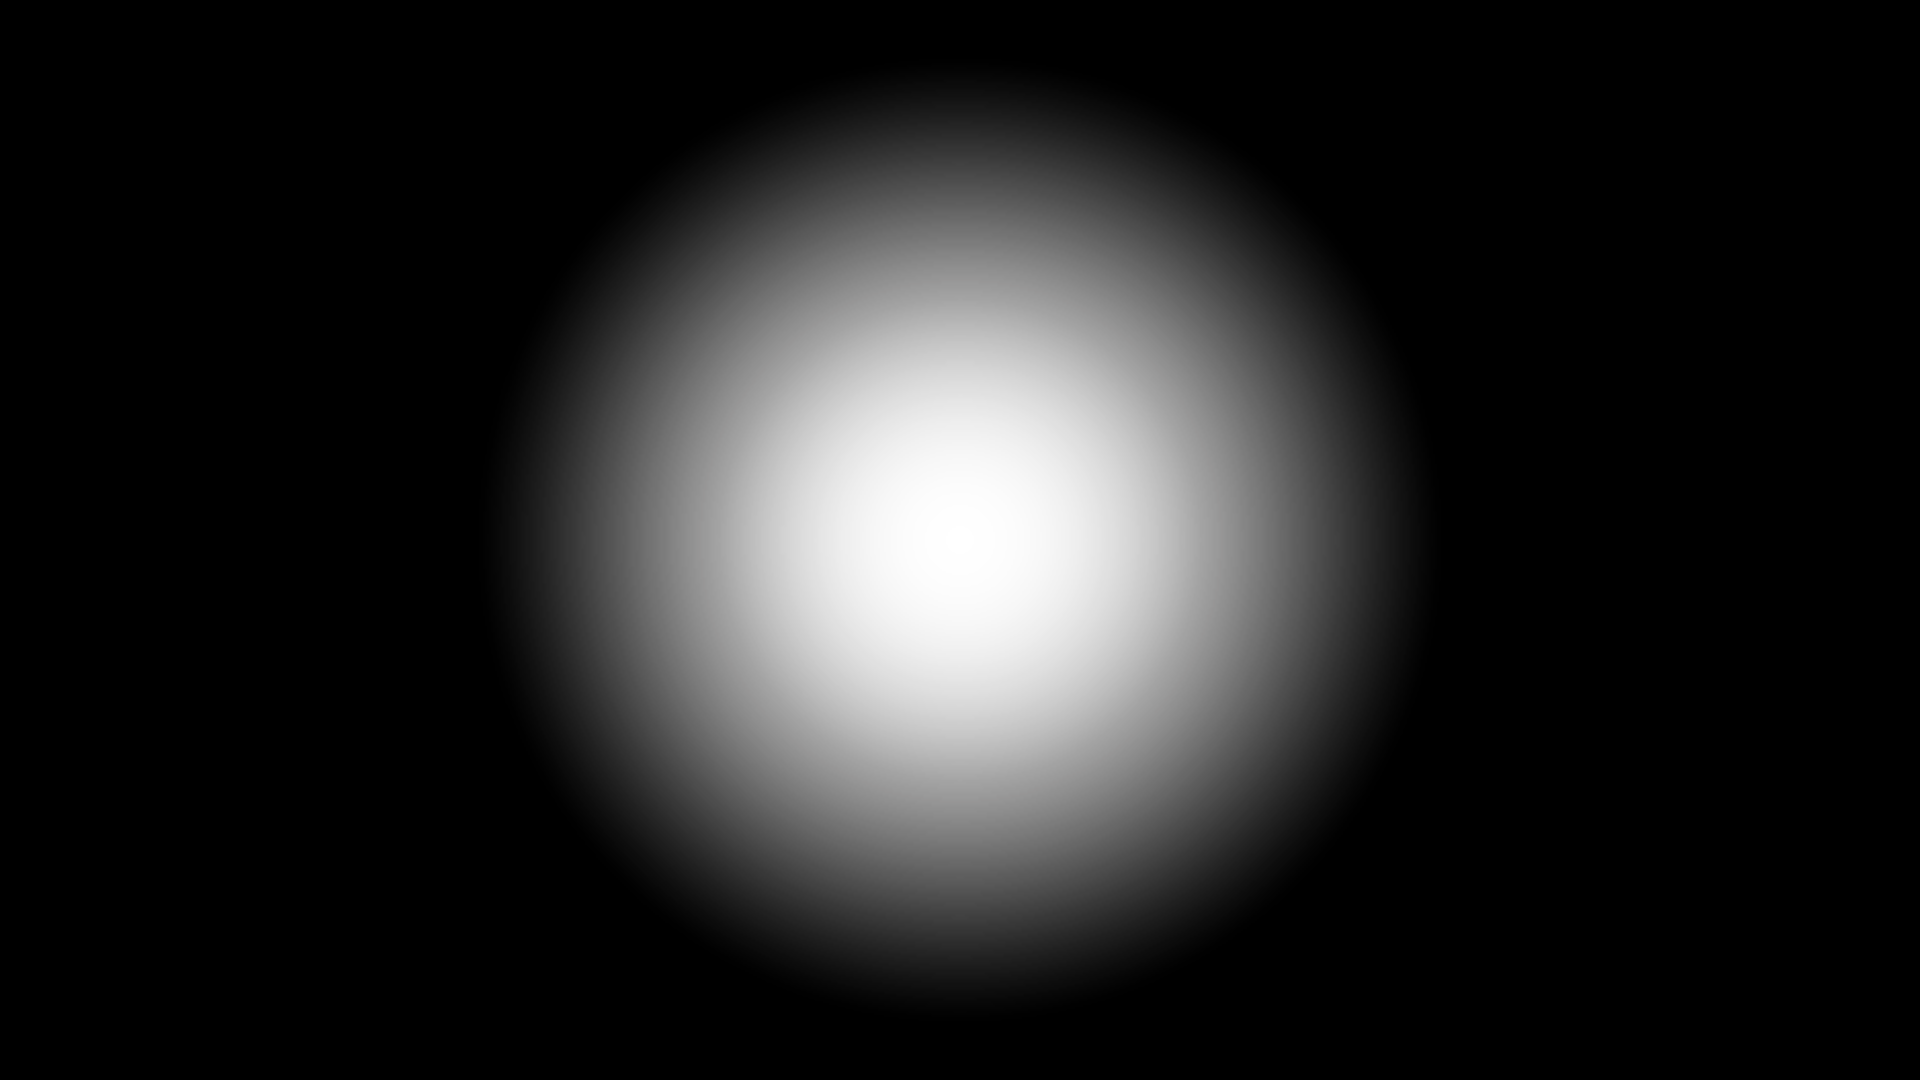
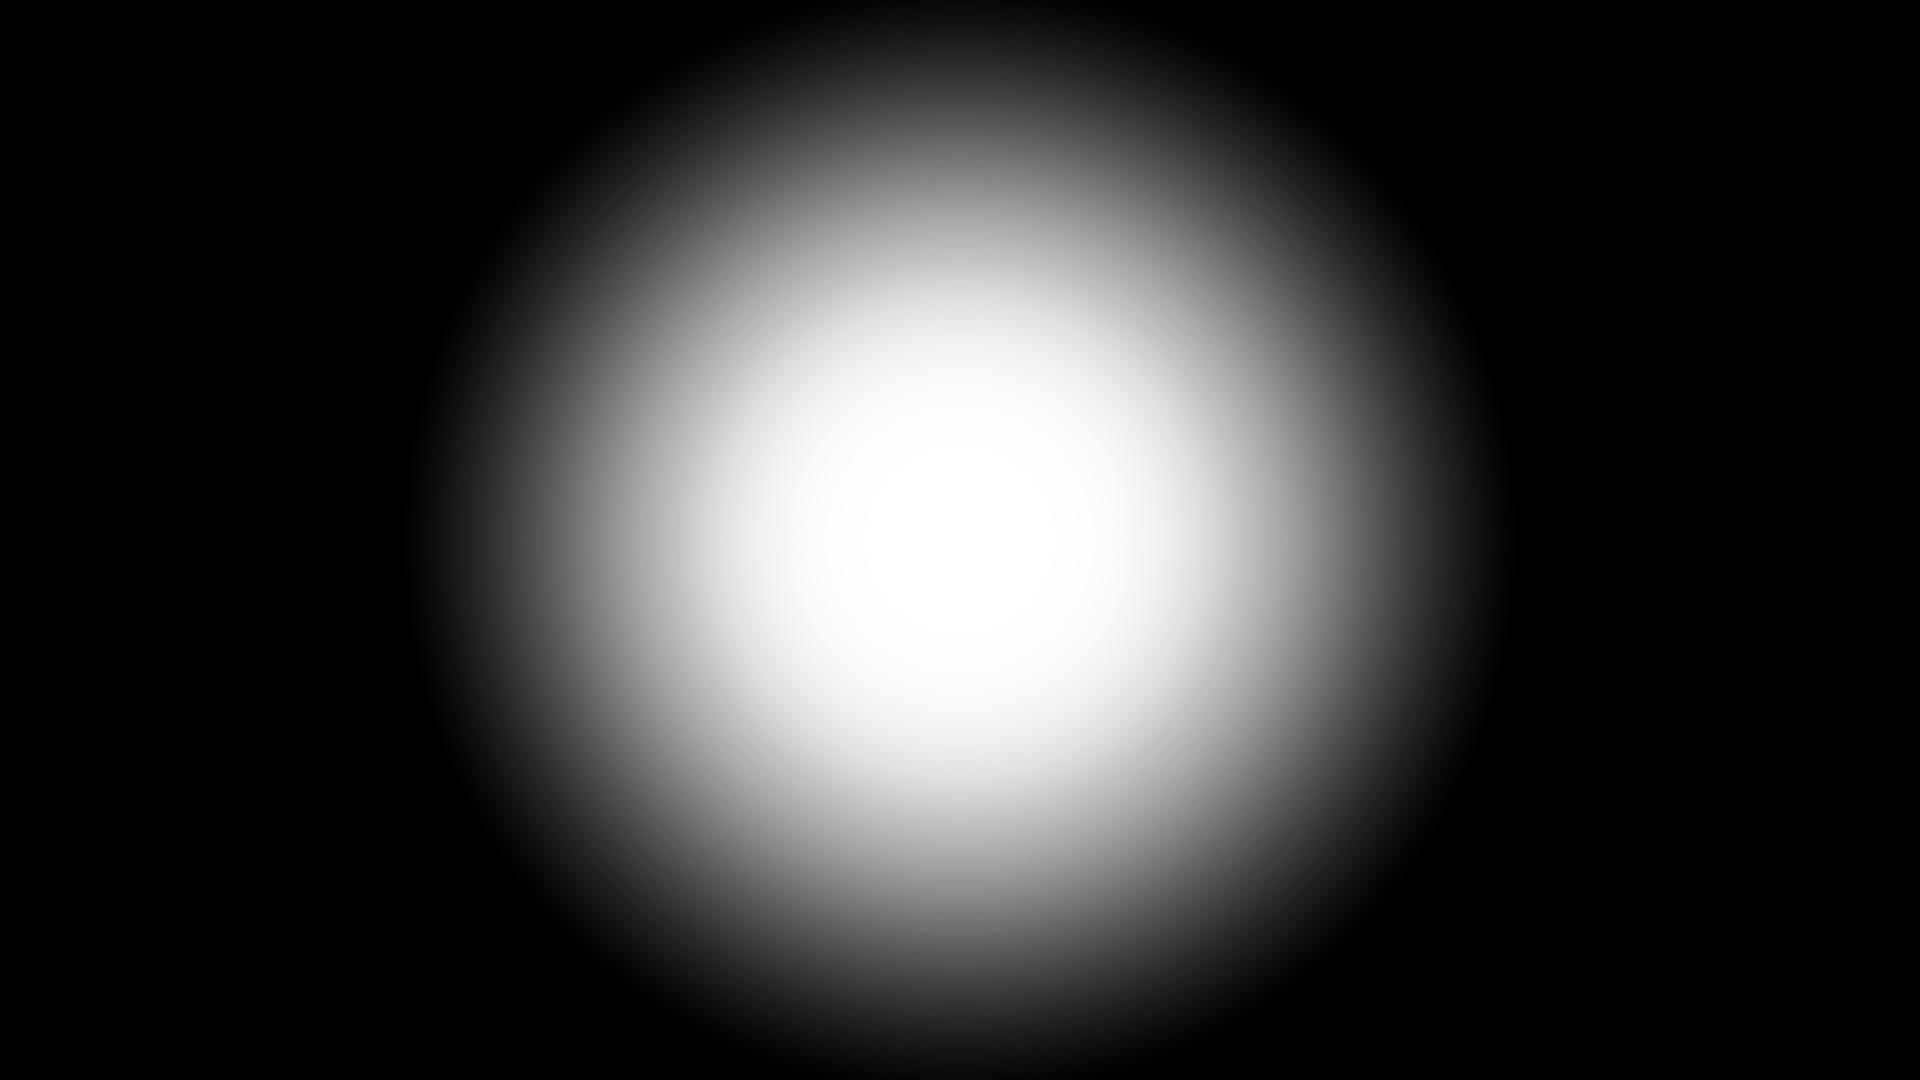
updated: overlay; modularized assets

diff --git a/src/graphics.cpp b/src/graphics.cpp
@@ -45,16 +45,17 @@ namespace Graphics {
         return Graphics::textures[path];
     }
 
+
     void drawMap(sf::RenderWindow& window) {
 
-        auto texture = Graphics::getTexture("assets/wall.png");
+        auto texture = Graphics::getTexture(Assets::wall_sprite);
         auto wall = sf::Sprite(texture);
         wall.setScale({
             Map::tilesize / static_cast<float>(texture.getSize().x),
             Map::tilesize / static_cast<float>(texture.getSize().y)
         });
 
-        auto texture2 = Graphics::getTexture("assets/floor.png");
+        auto texture2 = Graphics::getTexture(Assets::floor_sprite);
         auto floor = sf::Sprite(texture2);
         floor.setScale({
             Map::tilesize / static_cast<float>(texture2.getSize().x),
@@ -85,7 +86,7 @@ namespace Graphics {
 
         if (player.hidden) return;
 
-        auto texture = Graphics::getTexture("assets/player.png");
+        auto texture = Graphics::getTexture(Assets::player_sprite);
         auto sprite = sf::Sprite(texture);
         sprite.setScale({
             player.size / static_cast<float>(texture.getSize().x) * 2.5f,
@@ -97,7 +98,7 @@ namespace Graphics {
 
 
     void drawGhost(sf::RenderWindow& window, Ghost::Entity& ghost) {
-        auto texture = Graphics::getTexture("assets/ghost.png");
+        auto texture = Graphics::getTexture(Assets::ghost_sprite);
         auto sprite = sf::Sprite(texture);
         sprite.setScale({
             ghost.size / static_cast<float>(texture.getSize().x) * 3.5f,
@@ -111,7 +112,7 @@ namespace Graphics {
     void drawOverlay(sf::RenderWindow& window, sf::View& camera, Player::Entity& player) {
 
         static sf::Texture texture;
-        static bool loaded = texture.loadFromFile("assets/overlay.png");
+        static bool loaded = texture.loadFromFile(Assets::overlay_image);
 
         if (!loaded) {
             DEBUG("GRAPHICS: WARNING: overlay file not found!");
@@ -140,7 +141,7 @@ namespace Graphics {
 
         if (!font_loaded)
         {
-            if (!font.openFromFile("assets/silkscreen-regular.ttf"))
+            if (!font.openFromFile(Assets::silkscreen_regular_font))
             {
                 DEBUG("Failed to load HUD font");
 
@@ -181,7 +182,7 @@ namespace Graphics {
 
         for (unsigned int i = 0; i < Map::cross_slots.size(); i++) {
             auto tile = Map::cross_slots[i];
-            auto texture = Graphics::getTexture("assets/cross.png");
+            auto texture = Graphics::getTexture(Assets::cross_sprite);
             sf::Sprite sprite(texture);
             sprite.setScale({3.5,3.5});
             sprite.setPosition(Utils::tiledToCartesianVector(tile, Map::tilesize));
@@ -190,7 +191,7 @@ namespace Graphics {
 
         for (unsigned int i = 0; i < Map::crate_slots.size(); i++) {
             auto tile = Map::crate_slots[i];
-            auto texture = Graphics::getTexture("assets/crate.png");
+            auto texture = Graphics::getTexture(Assets::crate_sprite);
             sf::Sprite sprite(texture);
             sprite.setScale(
                 {
@@ -234,7 +235,7 @@ namespace Graphics {
         static bool font_loaded = false;
 
         if (!font_loaded) {
-            if (!font.openFromFile("assets/silkscreen-regular.ttf")) {
+            if (!font.openFromFile(Assets::silkscreen_regular_font)) {
                 DEBUG("Failed to load font");
                 exit(1);
             }   

diff --git a/src/include/graphics.hpp b/src/include/graphics.hpp
@@ -16,6 +16,29 @@
 
 namespace Graphics {
 
+    namespace Assets {
+        // Images & Sprites
+        const char menu_bg_image[] = "assets/bg.jpg";
+        const char overlay_image[] = "assets/overlay.png";
+        const char crate_sprite[] = "assets/crate.png";
+        const char cross_sprite[] = "assets/cross.png";
+        const char floor_sprite[] = "assets/floor.png";
+        const char ghost_sprite[] = "assets/ghost.png";
+        const char player_sprite[] = "assets/player.png";
+        const char wall_sprite[] = "assets/wall.png";
+    
+        // Map Data
+        const char map_file[] = "assets/map.png";
+    
+        // Audio
+        const char faint_signal_music[] = "assets/faint-signal.mp3";
+        const char golden_wind_music[] = "assets/golden-wind.mp3";
+        const char old_doll_slowed_music[] = "assets/old_doll_slowed.mp3";
+    
+        // Fonts
+        const char silkscreen_regular_font[] = "assets/silkscreen-regular.ttf";
+    }
+
     void drawMap(sf::RenderWindow& window);
 
     void drawPlayer(sf::RenderWindow& window, Player::Entity& player);

diff --git a/src/game.cpp b/src/game.cpp
@@ -60,7 +60,7 @@ namespace Game {
 
     void start(State& state) {
 
-        Map::load("assets/map.png");
+        Map::load(Graphics::Assets::map_file);
 
         state.player = Player::Entity(Utils::tiledToCartesianVectorCentered(Map::player_spawn_pos, Map::tilesize));
         state.ghost = Ghost::Entity(Utils::tiledToCartesianVectorCentered(Map::ghost_spawn_pos, Map::tilesize));
@@ -186,7 +186,7 @@ namespace Game {
             Graphics::drawProps(state.window);
             Graphics::drawGhost(state.window, state.ghost);
             Graphics::drawPlayer(state.window, state.player);
-            //Graphics::drawOverlay(state.window, state.camera, state.player);
+            Graphics::drawOverlay(state.window, state.camera, state.player);
 
             std::string texts[] = {"Stamina", "Crosses Left"};
             int values[] = {
